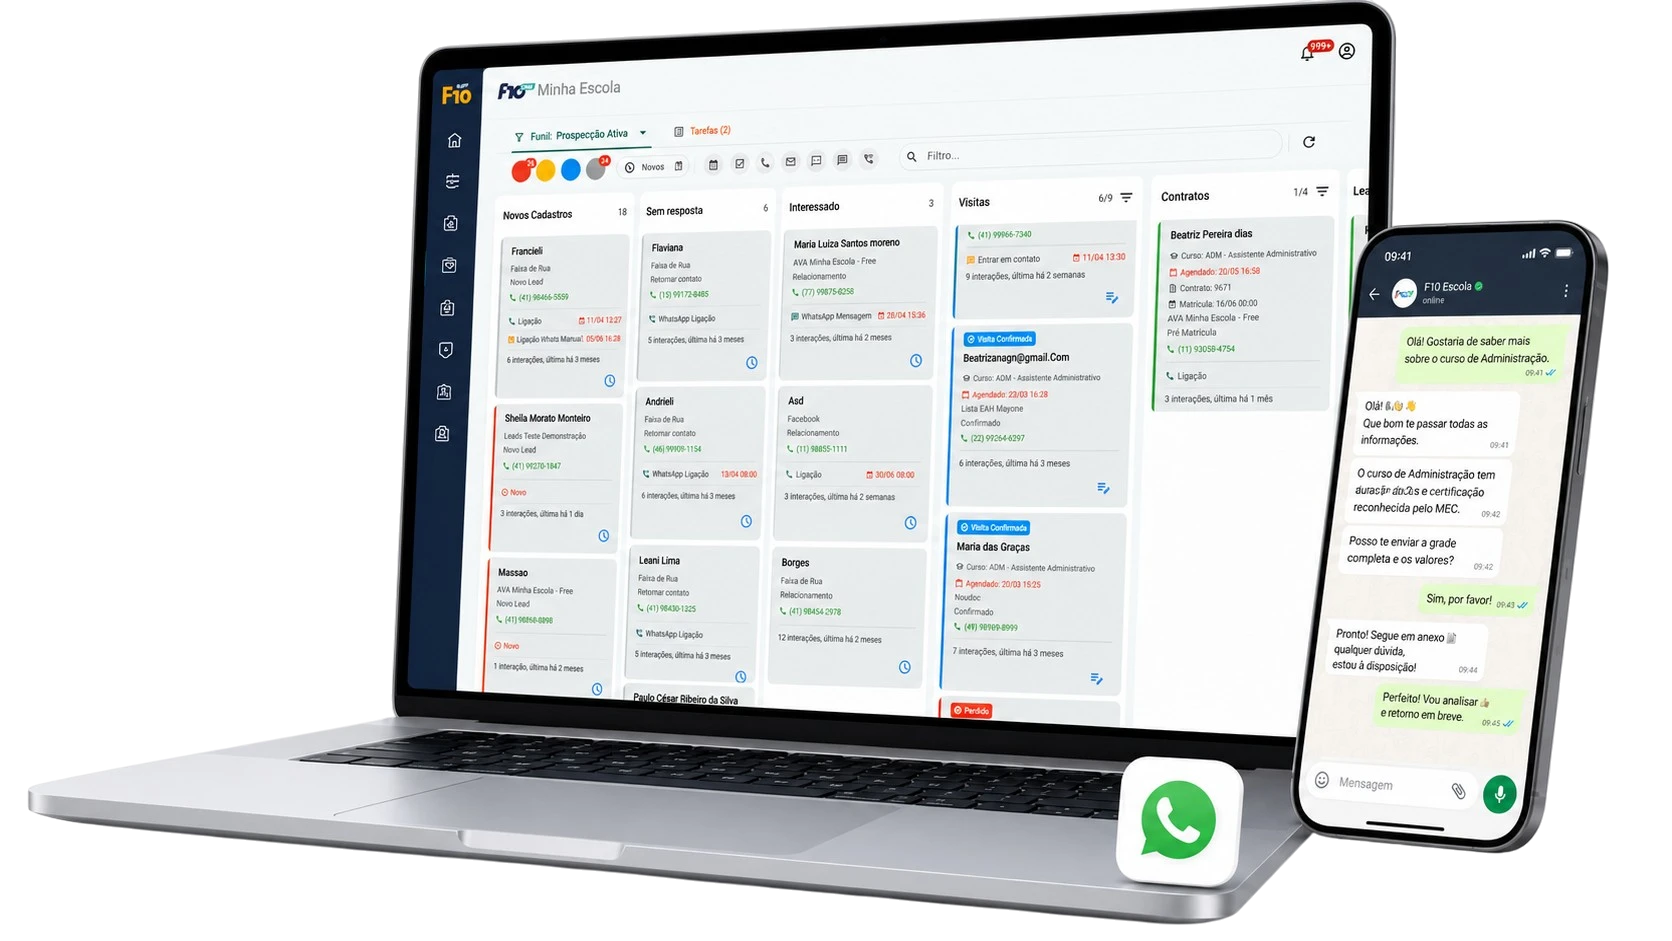
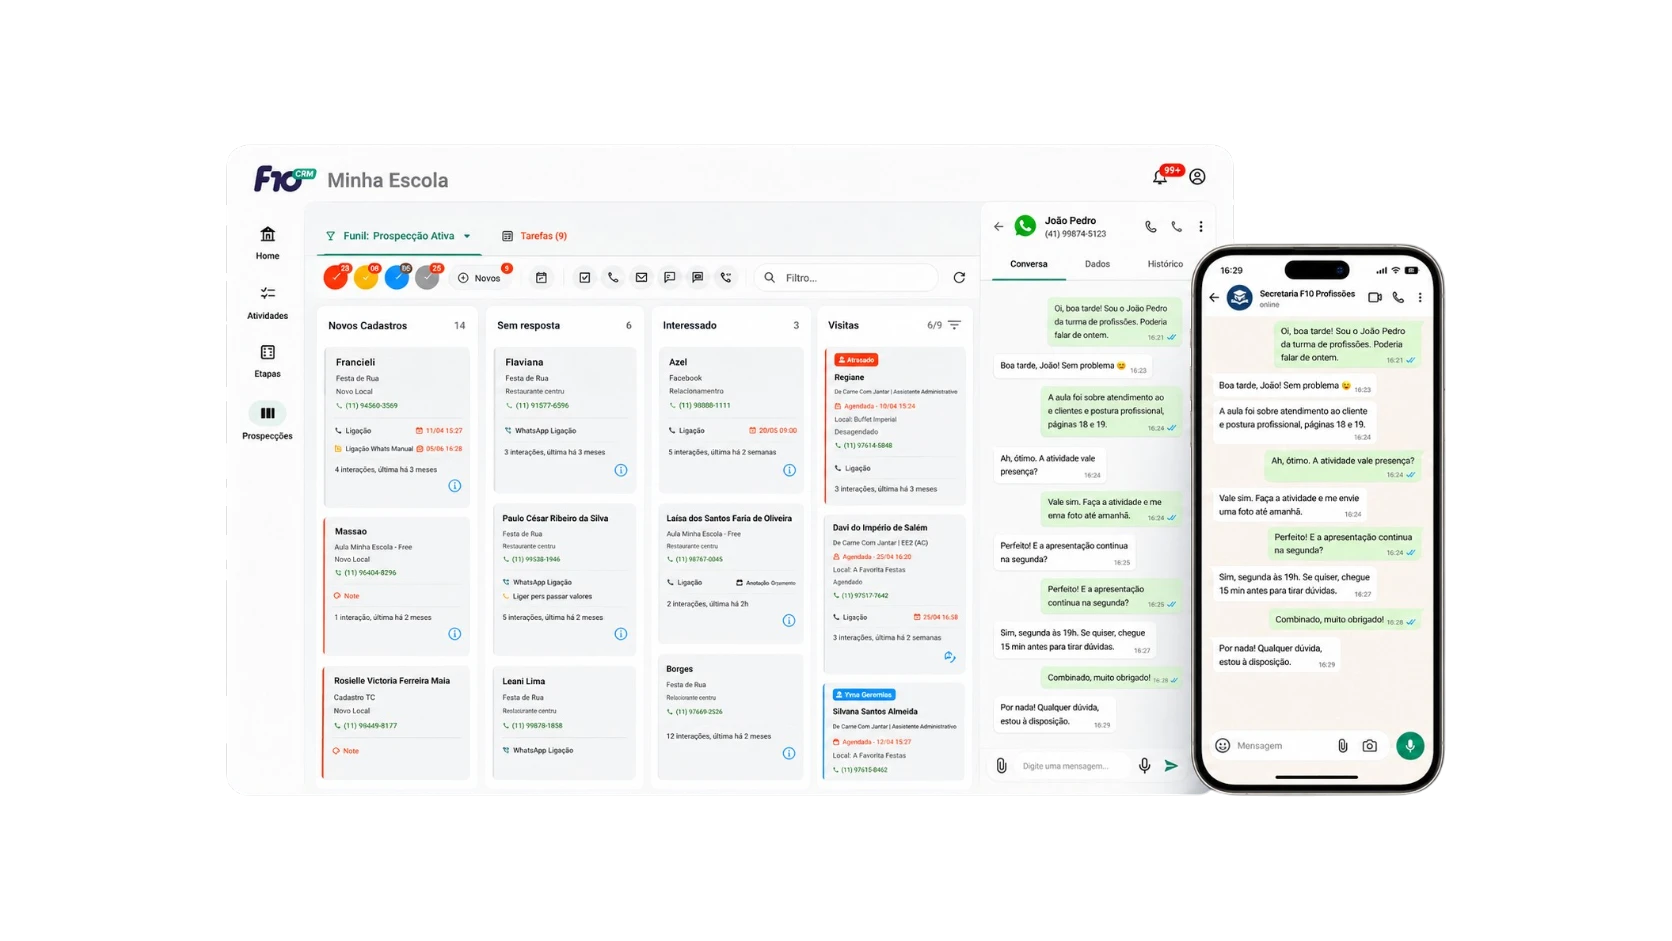
Ajuste hero: Trocando imagem

Changed region(s): [[0.0, 0.0, 0.9641, 0.9862], [0.4665, 0.1541, 0.5287, 0.1849], [0.1555, 0.3082, 0.1866, 0.339]]

diff --git a/src/cebrac-reveal.css b/src/cebrac-reveal.css
@@ -12,7 +12,7 @@
 
 .cebrac-presentation-route .page-shell .hero-visual::before {
   position: absolute;
-  inset: 4% 2% 6% 0;
+  inset: 6% -35% 1% 20.5%;
   z-index: 1;
   content: '';
   pointer-events: none;
@@ -25,10 +25,10 @@
 
 .cebrac-presentation-route .page-shell .hero-visual::after {
   position: absolute;
-  right: -2%;
-  bottom: -2%;
+  right: -15%;
+  bottom: -17%;
   z-index: 3;
-  width: 34%;
+  width: 56%;
   height: 76%;
   content: '';
   pointer-events: none;
@@ -36,7 +36,6 @@
   background-position: right bottom;
   background-repeat: no-repeat;
   background-size: contain;
-  filter: drop-shadow(0 34px 38px rgba(10, 24, 55, 0.3));
 }
 
 .cebrac-presentation-route .hero-mobile-visual {
